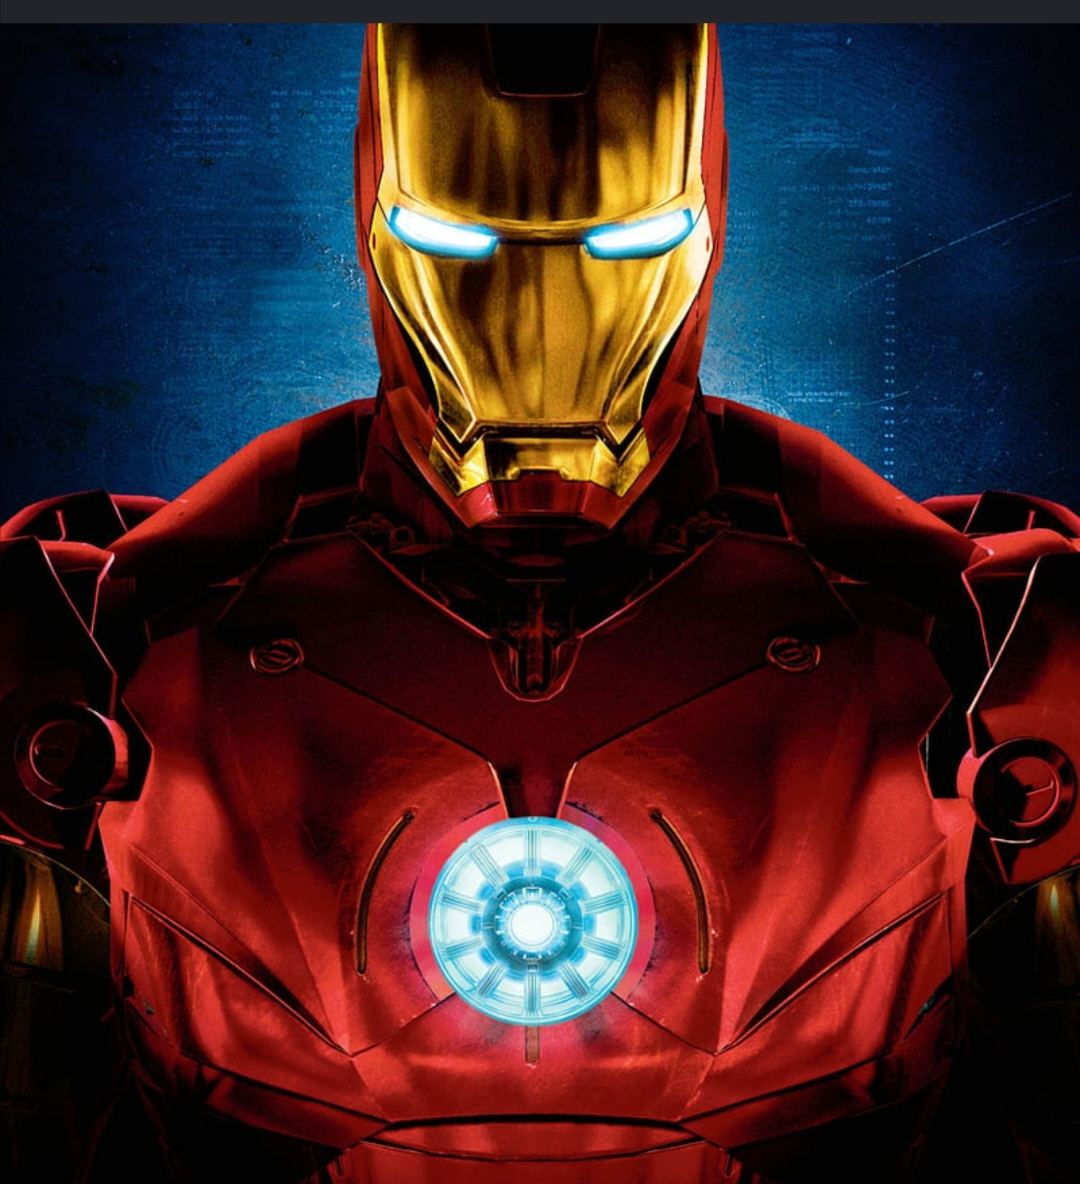
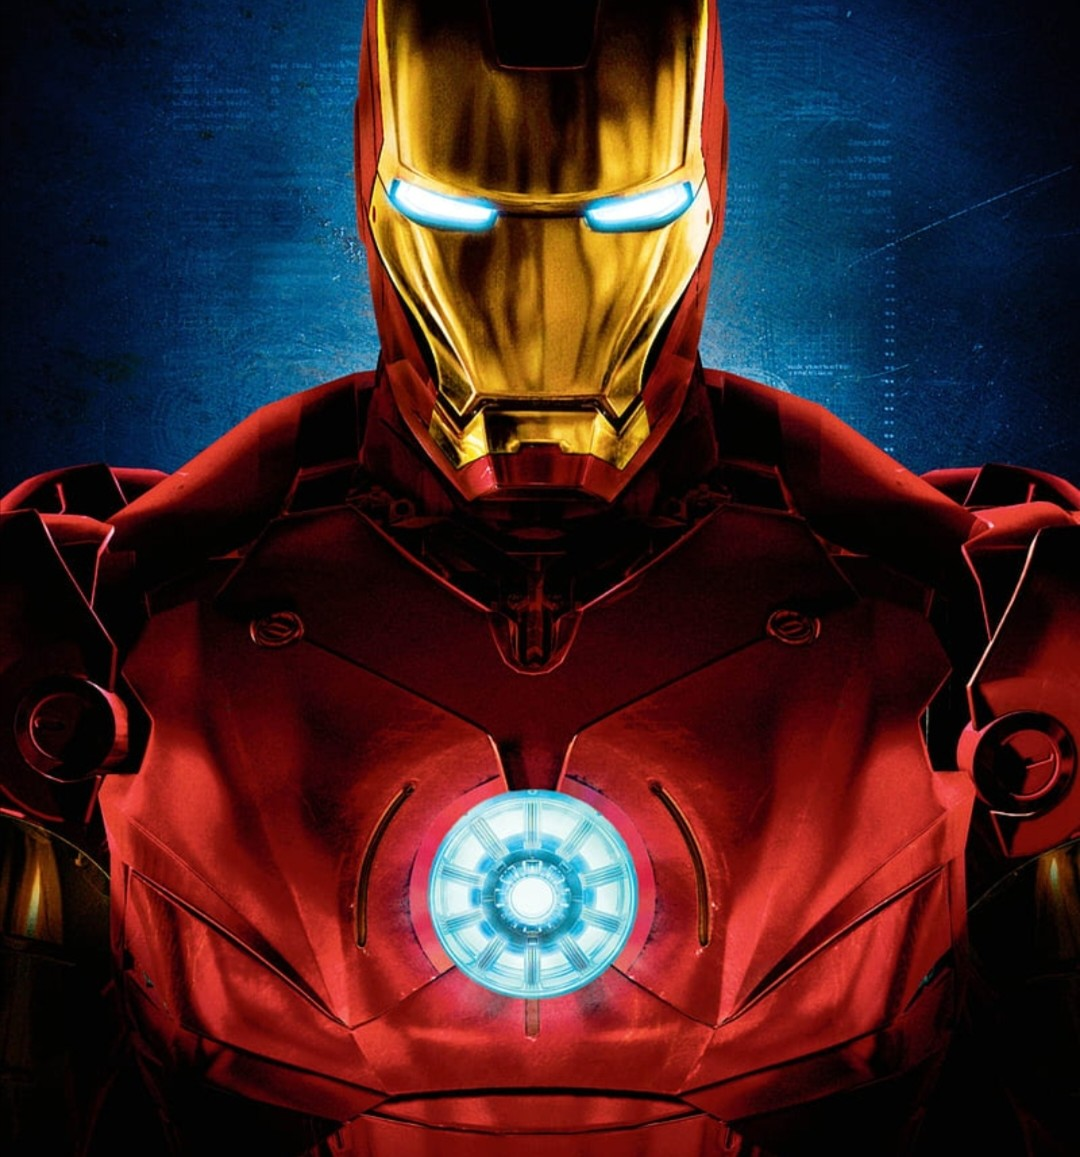
face align and hover

diff --git a/css/style.css b/css/style.css
@@ -413,3 +413,31 @@ main > section:not(#hero) {
         opacity: 0;
     }
 }
+
+/* Face reveal appear above Iron Man */
+.face {
+    z-index: 3;
+}
+
+/* Align */
+.face {
+    position: absolute;
+
+    width: min(500px, 90%);
+    aspect-ratio: 1080 / 1157;
+
+    height: auto;
+
+    top: 50%;
+    left: 50%;
+
+    transform: translate(-50%, -50%);
+
+    object-fit: cover;
+    object-position: center 250%;
+
+    z-index: 3;
+    pointer-events: none;
+
+    clip-path: circle(0px at 50% 50%);
+}

diff --git a/js/script.js b/js/script.js
@@ -18,7 +18,7 @@ if (ironmanContainer && face) {
 
         // Reveal your face around the cursor
         face.style.clipPath =
-            `circle(75px at ${xPercent}% ${yPercent}%)`;
+            `circle(90px at ${xPercent}% ${yPercent}%)`;
 
     });
 
@@ -30,3 +30,5 @@ if (ironmanContainer && face) {
     });
 
 }
+
+
